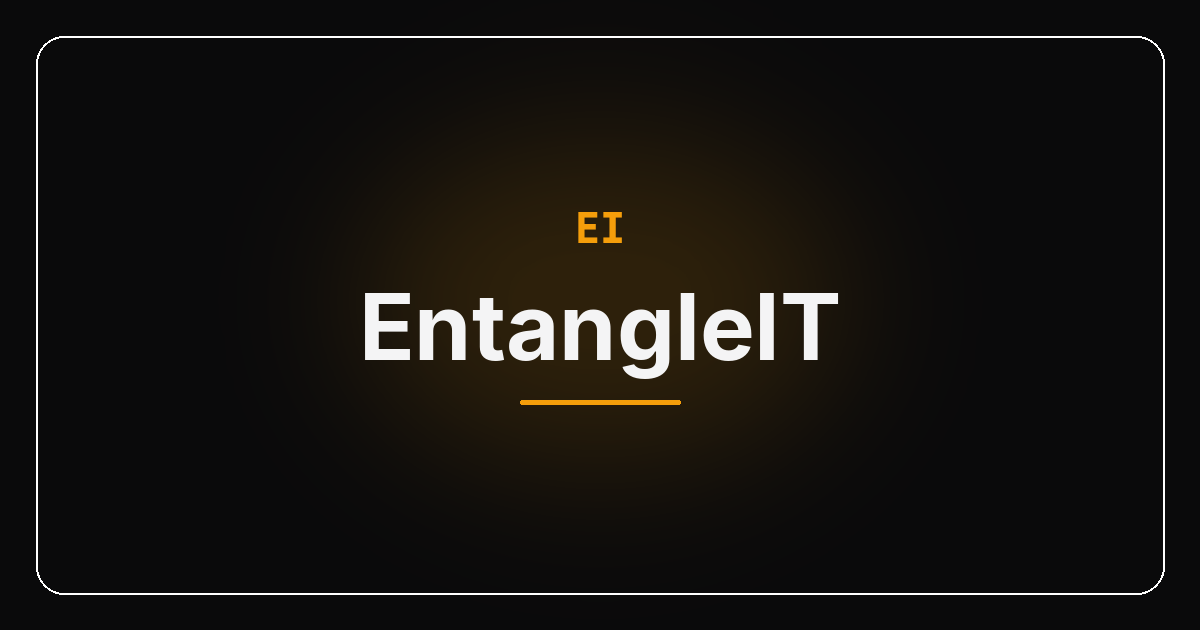
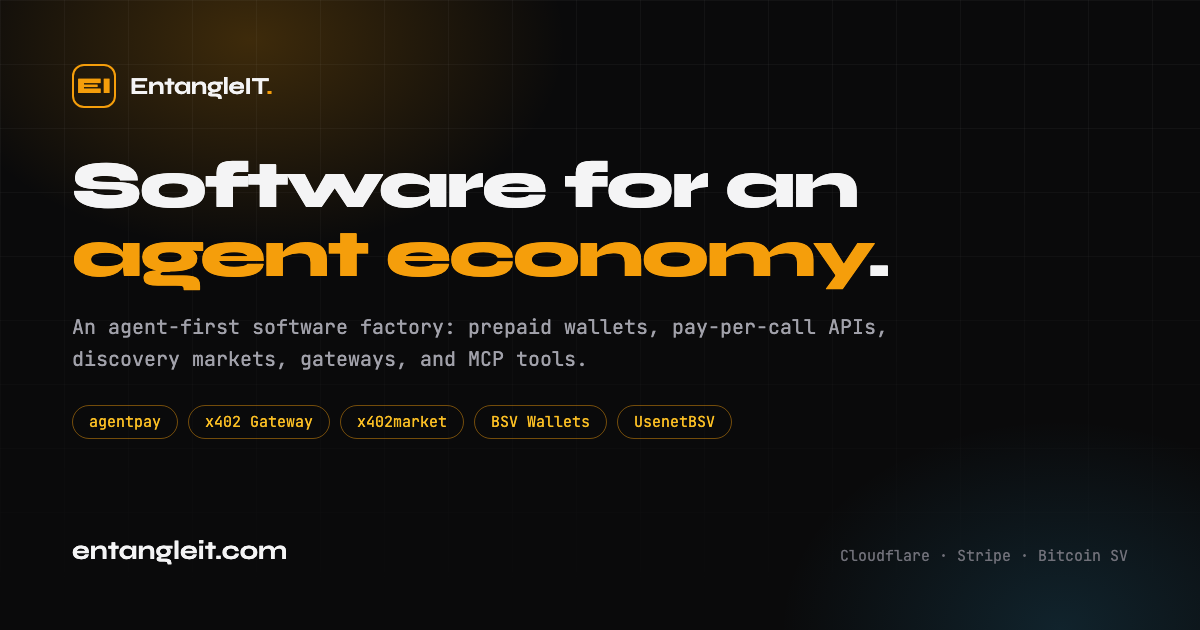
Reposition portfolio around the agent economy: agent-first hero, factory offers, new OG card

diff --git a/portfolio/src/site.js b/portfolio/src/site.js
@@ -7,18 +7,24 @@ export const YEARS = 28
 
 export const TITLE = 'Founder · EntangleIT'
 
+export const SITE_TITLE = 'EntangleIT — Software for an agent economy'
+export const SITE_DESCRIPTION =
+  'An agent-first software factory: prepaid agent wallets, pay-per-call APIs, discovery markets, gateways, and MCP tools — live on Cloudflare, Stripe, and Bitcoin SV.'
+
 export const offers = [
   {
-    id: 'install',
+    id: 'agent-api',
     price: '$750',
-    name: '48-hour install',
-    summary: 'WitnessCam or SignFlow on your Cloudflare account. Checkout and webhooks live in 48 hours.',
+    name: 'Agent-ready API in 48 hours',
+    summary:
+      'We wrap your API as a paid x402 endpoint on our Gateway — sats pricing, wallet-compatible, listed in x402market, plus an MCP tool so agents can call it.',
   },
   {
-    id: 'week',
+    id: 'factory-week',
     price: '$2,500',
-    name: 'Custom CF + Stripe week',
-    summary: 'Workers, Checkout, webhooks, Durable Objects if you need them. One week, one owner.',
+    name: 'Software factory week',
+    summary:
+      'One week, one owner: an agent-first product from idea to live — Workers, Stripe, BSV x402, MCP, dashboards, and the deploys.',
   },
   {
     id: 'diy',
@@ -31,8 +37,53 @@ export const offers = [
 
 export const liveProducts = [
   {
-    name: 'Leak',
+    name: 'agentpay',
     lead: true,
+    badge: 'Agent wallets',
+    description:
+      'Card-funded prepaid wallets for AI agents — scoped keys, budgets, sub-agents, approval gates, alerts, and BSV x402 payments over MCP.',
+    tech: ['Cloudflare Workers', 'Stripe', 'BSV x402', 'MCP'],
+    href: '/agentpay/',
+  },
+  {
+    name: 'x402 Gateway',
+    badge: 'New',
+    description:
+      'Point it at any upstream API, set sats prices, and get a hosted pay-per-call endpoint — with analytics, public dashboards, and auto-listing in x402market.',
+    tech: ['Cloudflare Workers', 'x402', 'BSV', 'Stripe'],
+    href: '/x402gateway',
+  },
+  {
+    name: 'x402market',
+    description:
+      'Registry of pay-per-call APIs for agents — discover sellers, pull live 402 quotes, pay per call with receipts.',
+    tech: ['Cloudflare Workers', 'x402', 'BSV'],
+    href: '/x402market/',
+  },
+  {
+    name: 'BSV Wallets',
+    description:
+      'A strict x402 facilitator plus 23 pay-per-call tools: image resize, fetch proxy, timestamping, QR, broadcast relay, screenshots, and chain data.',
+    tech: ['Cloudflare Workers', 'BSV', 'ARC', 'x402'],
+    href: '/bsv-wallets',
+  },
+  {
+    name: 'UsenetBSV',
+    badge: 'New',
+    description:
+      'Newsgroups where every action settles in sats — pay-to-post, pay-to-read, hash anchors, and a public NNTP gateway for classic readers.',
+    tech: ['Cloudflare Workers', 'x402', 'BSV', 'NNTP'],
+    href: '/usenetbsv',
+  },
+  {
+    name: 'Brainstorm',
+    description:
+      'Idea boards humans and agents share — nested ideas, votes, exports, BSV-paid tools, and 1Sat NFT mints.',
+    tech: ['Cloudflare Workers', 'Durable Objects', 'Stripe', 'BSV'],
+    href: '/brainstorm/',
+  },
+  {
+    name: 'Leak',
     badge: 'Free diagnosis',
     description:
       'Failed deliveries, disabled endpoints, missing events, past-due subs — replay in one click.',
@@ -41,17 +92,9 @@ export const liveProducts = [
   },
   {
     name: 'WitnessCam',
-    description:
-      'Record. Encrypt on-device. Hash. Timestamp. Transfer custody like a lab sample.',
+    description: 'Record. Encrypt on-device. Hash. Timestamp. Transfer custody like a lab sample.',
     tech: ['Workers', 'Stripe Checkout', 'WebCrypto'],
     href: '/witnesscam/',
-  },
-  {
-    name: 'SignFlow Talk',
-    description:
-      'ASL in the browser — interactive 3D hands, camera practice, and Talk.',
-    tech: ['React', 'Three.js', 'MediaPipe'],
-    href: '/ASLTutor/talk',
   },
   {
     name: 'PeekARoom',
@@ -66,6 +109,12 @@ export const liveProducts = [
       'Bounties with BSV escrow or Stripe card funding. Humans and agents. Sealed proof via WitnessCam.',
     tech: ['BSV', 'Stripe Checkout', 'Workers'],
     href: '/bsvbounties/',
+  },
+  {
+    name: 'SignFlow Talk',
+    description: 'ASL in the browser — interactive 3D hands, camera practice, and Talk.',
+    tech: ['React', 'Three.js', 'MediaPipe'],
+    href: '/ASLTutor/talk',
   },
 ]
 

diff --git a/portfolio/src/components/Contact.jsx b/portfolio/src/components/Contact.jsx
@@ -2,17 +2,17 @@ import React, { useEffect, useState } from 'react'
 import { EMAIL, LINKEDIN, MAILTO, RESUME } from '../site'
 
 const offerOptions = [
-  { value: 'install', label: '$750 WitnessCam or SignFlow install (48h)' },
-  { value: 'week', label: '$2,500 custom CF + Stripe week' },
+  { value: 'agent-api', label: '$750 agent-ready API (48h)' },
+  { value: 'factory-week', label: '$2,500 software factory week' },
   { value: 'other', label: 'Something else' },
 ]
 
 function offerFromLocation() {
-  if (typeof window === 'undefined') return 'install'
+  if (typeof window === 'undefined') return 'agent-api'
   const fromQuery = new URLSearchParams(window.location.search).get('offer')
   const fromHash = new URLSearchParams(window.location.hash.split('?')[1] || '').get('offer')
   const value = fromQuery || fromHash
-  return offerOptions.some((o) => o.value === value) ? value : 'install'
+  return offerOptions.some((o) => o.value === value) ? value : 'agent-api'
 }
 
 export default function Contact({ variant = 'home' }) {
@@ -26,11 +26,11 @@ export default function Contact({ variant = 'home' }) {
     }
     window.addEventListener('hashchange', sync)
     window.addEventListener('popstate', sync)
-    window.addEventListener('card-offer', onOffer)
+    window.addEventListener('factory-offer', onOffer)
     return () => {
       window.removeEventListener('hashchange', sync)
       window.removeEventListener('popstate', sync)
-      window.removeEventListener('card-offer', onOffer)
+      window.removeEventListener('factory-offer', onOffer)
     }
   }, [])
 
@@ -38,7 +38,7 @@ export default function Contact({ variant = 'home' }) {
     event.preventDefault()
     const data = new FormData(event.target)
     const selected = offerOptions.find((o) => o.value === data.get('offer'))
-    const subject = encodeURIComponent(`CARD — ${selected?.label || data.get('offer')} — ${data.get('name')}`)
+    const subject = encodeURIComponent(`EntangleIT — ${selected?.label || data.get('offer')} — ${data.get('name')}`)
     const body = encodeURIComponent(
       [
         `Name: ${data.get('name')}`,
@@ -59,8 +59,8 @@ export default function Contact({ variant = 'home' }) {
         <div className="contact-content">
           <p>
             {variant === 'about'
-              ? 'Email is the catch. Installs, custom weeks, or anything else.'
-              : 'Book a $750 install or a $2,500 week. Email is the catch — the form opens your mail client.'}
+              ? 'Email is the catch. Put an API on the agent rails, book a factory week, or ask about anything else.'
+              : 'Book a 48-hour agent-ready API or a $2,500 factory week. Email is the catch — the form opens your mail client.'}
           </p>
           <p className="contact-email">
             <a href={MAILTO}>{EMAIL}</a>

diff --git a/portfolio/public/index.html b/portfolio/public/index.html
@@ -4,27 +4,27 @@
     <meta charset="UTF-8" />
     <link rel="icon" type="image/svg+xml" href="/favicon.svg" />
     <meta name="viewport" content="width=device-width, initial-scale=1.0" />
-    <title>EntangleIT — Card payments on Cloudflare</title>
-    <meta name="description" content="Done-for-you $750 / $2.5k · DIY $149 · live demos on entangleit.com" />
+    <title>EntangleIT — Software for an agent economy</title>
+    <meta name="description" content="An agent-first software factory: prepaid agent wallets, pay-per-call APIs, discovery markets, gateways, and MCP tools — live on Cloudflare, Stripe, and Bitcoin SV." />
     <link rel="canonical" href="https://entangleit.com/" />
     <meta property="og:type" content="website" />
     <meta property="og:site_name" content="EntangleIT" />
     <meta property="og:url" content="https://entangleit.com/" />
-    <meta property="og:title" content="EntangleIT — Card payments on Cloudflare" />
-    <meta property="og:description" content="Done-for-you $750 / $2.5k · DIY $149 · live demos on entangleit.com" />
+    <meta property="og:title" content="EntangleIT — Software for an agent economy" />
+    <meta property="og:description" content="Agent-first software: wallets, pay-per-call APIs, discovery markets, gateways, and MCP tools. Live on Cloudflare, Stripe, and Bitcoin SV." />
     <meta property="og:image" content="https://entangleit.com/og-card.png" />
     <meta property="og:image:width" content="1200" />
     <meta property="og:image:height" content="630" />
     <meta property="og:image:alt" content="EntangleIT" />
     <meta name="twitter:card" content="summary_large_image" />
-    <meta name="twitter:title" content="EntangleIT — Card payments on Cloudflare" />
-    <meta name="twitter:description" content="Done-for-you $750 / $2.5k · DIY $149 · live demos on entangleit.com" />
+    <meta name="twitter:title" content="EntangleIT — Software for an agent economy" />
+    <meta name="twitter:description" content="Agent-first software: wallets, pay-per-call APIs, discovery markets, gateways, and MCP tools. Live on Cloudflare, Stripe, and Bitcoin SV." />
     <meta name="twitter:image" content="https://entangleit.com/og-card.png" />
     <meta name="twitter:image:alt" content="EntangleIT" />
     <link rel="preconnect" href="https://fonts.googleapis.com">
     <link rel="preconnect" href="https://fonts.gstatic.com" crossorigin>
     <link href="https://fonts.googleapis.com/css2?family=JetBrains+Mono:wght@400;500;600&family=Syne:wght@400;500;600;700&display=swap" rel="stylesheet">
-    <script type="module" crossorigin src="/assets/index-BTWqzYR4.js"></script>
+    <script type="module" crossorigin src="/assets/index-vqkfI0uc.js"></script>
     <link rel="stylesheet" crossorigin href="/assets/index-CP11GX3s.css">
   </head>
   <body>

diff --git a/portfolio/index.html b/portfolio/index.html
@@ -4,21 +4,21 @@
     <meta charset="UTF-8" />
     <link rel="icon" type="image/svg+xml" href="/favicon.svg" />
     <meta name="viewport" content="width=device-width, initial-scale=1.0" />
-    <title>EntangleIT — Card payments on Cloudflare</title>
-    <meta name="description" content="Done-for-you $750 / $2.5k · DIY $149 · live demos on entangleit.com" />
+    <title>EntangleIT — Software for an agent economy</title>
+    <meta name="description" content="An agent-first software factory: prepaid agent wallets, pay-per-call APIs, discovery markets, gateways, and MCP tools — live on Cloudflare, Stripe, and Bitcoin SV." />
     <link rel="canonical" href="https://entangleit.com/" />
     <meta property="og:type" content="website" />
     <meta property="og:site_name" content="EntangleIT" />
     <meta property="og:url" content="https://entangleit.com/" />
-    <meta property="og:title" content="EntangleIT — Card payments on Cloudflare" />
-    <meta property="og:description" content="Done-for-you $750 / $2.5k · DIY $149 · live demos on entangleit.com" />
+    <meta property="og:title" content="EntangleIT — Software for an agent economy" />
+    <meta property="og:description" content="Agent-first software: wallets, pay-per-call APIs, discovery markets, gateways, and MCP tools. Live on Cloudflare, Stripe, and Bitcoin SV." />
     <meta property="og:image" content="https://entangleit.com/og-card.png" />
     <meta property="og:image:width" content="1200" />
     <meta property="og:image:height" content="630" />
     <meta property="og:image:alt" content="EntangleIT" />
     <meta name="twitter:card" content="summary_large_image" />
-    <meta name="twitter:title" content="EntangleIT — Card payments on Cloudflare" />
-    <meta name="twitter:description" content="Done-for-you $750 / $2.5k · DIY $149 · live demos on entangleit.com" />
+    <meta name="twitter:title" content="EntangleIT — Software for an agent economy" />
+    <meta name="twitter:description" content="Agent-first software: wallets, pay-per-call APIs, discovery markets, gateways, and MCP tools. Live on Cloudflare, Stripe, and Bitcoin SV." />
     <meta name="twitter:image" content="https://entangleit.com/og-card.png" />
     <meta name="twitter:image:alt" content="EntangleIT" />
     <link rel="preconnect" href="https://fonts.googleapis.com">

diff --git a/portfolio/src/components/Hero.jsx b/portfolio/src/components/Hero.jsx
@@ -7,26 +7,22 @@ export default function Hero({ navigate }) {
       <div className="hero-bg" aria-hidden="true" />
       <div className="hero-content">
         <p className="hero-greeting">Richard Hein · {TITLE}</p>
-        <h1 className="hero-name">Need card payments live on Cloudflare this week?</h1>
+        <h1 className="hero-name">Software for an agent economy.</h1>
         <p className="hero-summary">
-          $750 installs WitnessCam or SignFlow in 48 hours.
-          $2,500 buys a custom Cloudflare + Stripe week.
-          Or take the $149 DIY kit and ship it yourself.
+          EntangleIT is an agent-first software factory. We build the rails agents run
+          on — prepaid wallets, pay-per-call APIs, discovery markets, gateways, and MCP
+          tools — live on Cloudflare, Stripe, and Bitcoin SV. No mockups: every product
+          below runs on this origin.
         </p>
         <div className="hero-cta">
-          <button type="button" className="btn btn-primary" onClick={() => navigate('/#card')}>
-            CARD / Get in Touch
+          <button type="button" className="btn btn-primary" onClick={() => navigate('/#products')}>
+            See the agent stack
           </button>
-          <a
-            href={DIY_KIT}
-            target="_blank"
-            rel="noopener noreferrer"
-            className="btn btn-secondary"
-          >
-            $149 DIY
-          </a>
-          <a href="/leak/" className="btn btn-ghost">
-            Free Leak diagnosis
+          <button type="button" className="btn btn-secondary" onClick={() => navigate('/#factory')}>
+            Build with the factory
+          </button>
+          <a href={DIY_KIT} target="_blank" rel="noopener noreferrer" className="btn btn-ghost">
+            $149 DIY kit
           </a>
         </div>
       </div>

diff --git a/portfolio/src/components/Card.jsx b/portfolio/src/components/Card.jsx
@@ -3,12 +3,13 @@ import { DIY_KIT, offers } from '../site'
 
 export default function Card({ navigate }) {
   return (
-    <section id="card" className="section">
+    <section id="factory" className="section">
       <div className="section-inner wide">
-        <p className="section-kicker">Services</p>
-        <h2 className="section-title">CARD</h2>
+        <p className="section-kicker">Software factory</p>
+        <h2 className="section-title">Build with the factory</h2>
         <p className="section-lead">
-          Get Stripe live on Cloudflare. Install an existing product, or buy a week.
+          Bring an API, a workflow, or an idea. Leave with a live, agent-ready product —
+          priced in sats, payable per call, and discoverable by agents.
         </p>
         <div className="offers-grid">
           {offers.map((offer) => (
@@ -30,7 +31,7 @@ export default function Card({ navigate }) {
                   type="button"
                   className="btn btn-primary"
                   onClick={() => {
-                    window.dispatchEvent(new CustomEvent('card-offer', { detail: offer.id }))
+                    window.dispatchEvent(new CustomEvent('factory-offer', { detail: offer.id }))
                     navigate('/#contact')
                   }}
                 >
@@ -45,7 +46,7 @@ export default function Card({ navigate }) {
           <a href={DIY_KIT} target="_blank" rel="noopener noreferrer">
             Gumroad
           </a>
-          . Installs and custom weeks start with email.
+          . Agent-ready APIs and factory weeks start with email.
         </p>
       </div>
     </section>

diff --git a/portfolio/src/components/Products.jsx b/portfolio/src/components/Products.jsx
@@ -5,9 +5,12 @@ export default function Products() {
   return (
     <section id="products" className="section">
       <div className="section-inner wide">
+        <p className="section-kicker">Agent first</p>
         <h2 className="section-title">Live proof</h2>
         <p className="section-lead">
-          Shipping on this origin. Leak first — free diagnosis, then the rest of the stack.
+          Every product here runs on this origin — wallets, gateways, markets, and paid
+          APIs for agents first, then the rest of the factory: monitoring, evidence,
+          rooms, and bounties.
         </p>
         <div className="products-grid">
           {liveProducts.map((product) => (

diff --git a/portfolio/src/App.jsx b/portfolio/src/App.jsx
@@ -9,7 +9,7 @@ import Archive from './components/Archive'
 import Contact from './components/Contact'
 import Nav from './components/Nav'
 import { useRoute } from './route'
-import { TITLE } from './site'
+import { SITE_DESCRIPTION, SITE_TITLE, TITLE } from './site'
 
 function setMeta(title, description) {
   document.title = title
@@ -19,10 +19,7 @@ function setMeta(title, description) {
 
 function Home({ navigate }) {
   useEffect(() => {
-    setMeta(
-      `EntangleIT — Card payments on Cloudflare`,
-      `Done-for-you $750 / $2.5k · DIY $149 · live demos on entangleit.com`
-    )
+    setMeta(SITE_TITLE, SITE_DESCRIPTION)
   }, [])
 
   return (

diff --git a/portfolio/src/components/Nav.jsx b/portfolio/src/components/Nav.jsx
@@ -1,9 +1,14 @@
 import React, { useState, useEffect } from 'react'
 
 const navItems = [
-  { href: '/leak/', label: 'Leak' },
   { href: '/#products', label: 'Products' },
-  { href: '/#card', label: 'CARD' },
+  { href: '/#factory', label: 'Factory' },
+  { href: '/agentpay/', label: 'agentpay' },
+  { href: '/x402market/', label: 'x402market' },
+  { href: '/x402gateway', label: 'x402gateway' },
+  { href: '/vibecoded/', label: 'Vibecoded' },
+  { href: '/bitcoinzip/', label: 'BitcoinZip' },
+  { href: '/leak/', label: 'Leak' },
   { href: '/about', label: 'About' },
 ]
 

diff --git a/portfolio/src/components/About.jsx b/portfolio/src/components/About.jsx
@@ -18,7 +18,8 @@ export default function About() {
           </p>
           <p>
             Technical lead for LLM RAG systems when the job needs it, from UI through
-            middleware to backend. The paid work now is getting Stripe live on Cloudflare.
+            middleware to backend. The work now is agent-first: wallets, paid APIs,
+            discovery, and the software factory that ships them.
           </p>
         </div>
       </div>
